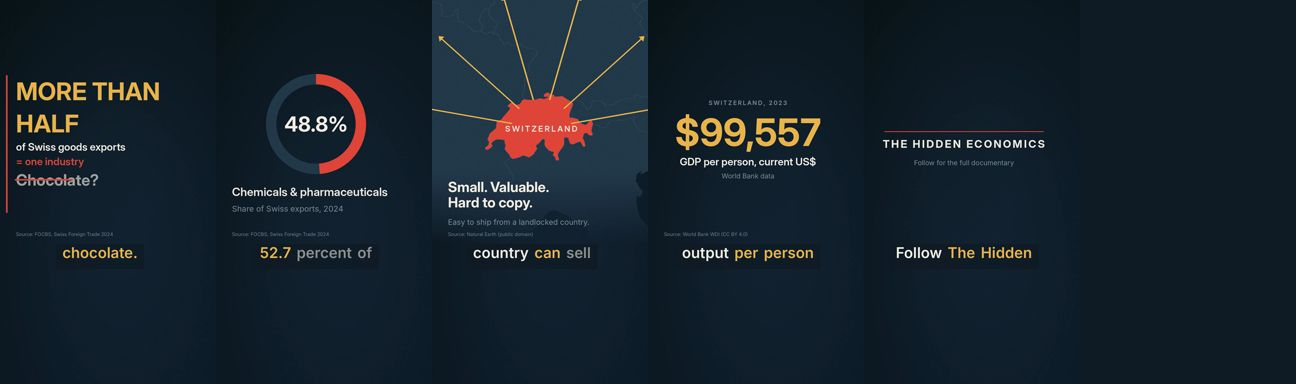
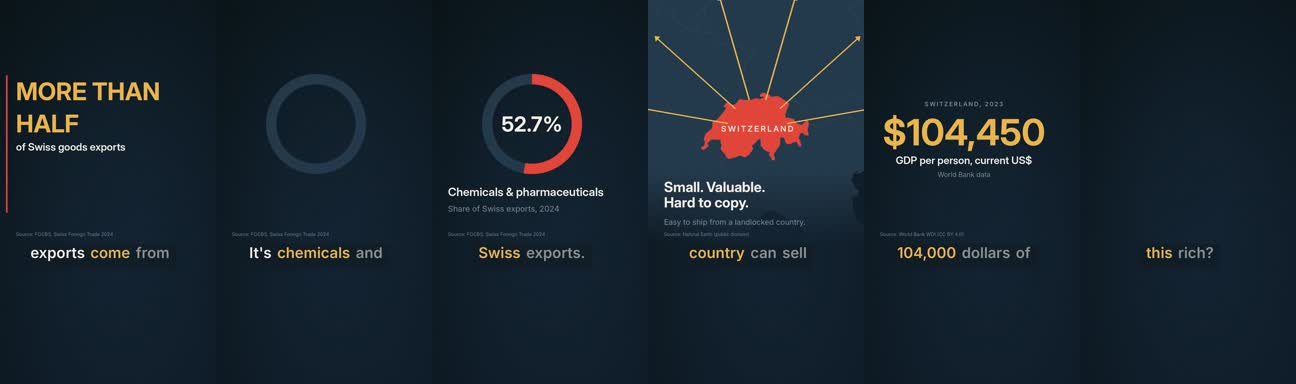
Topic 1 rebuilt with the OpenAI narrator: update PoC reports
documentary 534.9 s, short_exports 38.4 s, extended_franc 76.9 s pass QC
(0 errors). short_secrecy is 46.9 s and fails its 30-45 s runtime target with
the slower voice (speech alone is 44.4 s); left for a script decision rather
than padding or speeding up. Paid TTS billed: 9,734 chars, $0.292 of the
$0.50 cap. QC/cost reports, dossier (consistent live World Bank data),
thumbnails and contact sheets refreshed.

Claude-Session: https://claude.ai/code/session_014jUfN7raNXxtX19HjW58d3

diff --git a/docs/poc/dossier.md b/docs/poc/dossier.md
@@ -1,6 +1,6 @@
 # Research dossier: Why Switzerland Is So Rich
 
-Generated 2026-11-03T02:54:26+00:00.
+Generated 2026-11-03T10:40:12+00:00.
 
 ## Claims
 
@@ -23,10 +23,10 @@ Generated 2026-11-03T02:54:26+00:00.
 | `price_level_2024` | In 2024 Switzerland had the highest price level among the countries compared by Eurostat, with a price level index of 158.8 (EU = 100) at GDP level. | **source_located** | eurostat_price_levels, bluewin_price_2024 |
 | `pharma_hq_basel` | Roche and Novartis both have their global headquarters in Basel. | **source_located** | swissinfo_roche_hq, swissinfo_roche_rd |
 | `pop_che_2023` | Switzerland's population in 2023 was 8,888,822. | **data_derived** | wb_pop_mirror |
-| `gdppc_che_2023` | Switzerland's GDP per capita in 2023 was $99,557 (current US$). | **data_derived** | wb_gdppc_indicator, wb_gdp_mirror, wb_pop_mirror |
-| `ratio_che_deu_2023` | In 2023, Switzerland's GDP per capita was 1.86 times that of Germany ($99,557 vs $53,503). | **data_derived** | wb_gdppc_indicator, wb_gdp_mirror, wb_pop_mirror |
-| `ratio_che_euu_2023` | In 2023, Switzerland's GDP per capita was 2.44 times that of European Union ($99,557 vs $40,877). | **data_derived** | wb_gdppc_indicator, wb_gdp_mirror, wb_pop_mirror |
-| `gdppc_chart_2023` | GDP per capita (current US$), 2023: Switzerland $99,557; United States $81,249; Austria $56,510; Germany $53,503; United Kingdom $48,741; France $44,329; EU average $40,877; Italy $38,228 | **data_derived** | wb_gdppc_indicator, wb_gdp_mirror, wb_pop_mirror |
+| `gdppc_che_2023` | Switzerland's GDP per capita in 2023 was $104,450 (current US$). | **data_derived** | wb_gdppc_indicator, wb_gdp_mirror, wb_pop_mirror |
+| `ratio_che_deu_2023` | In 2023, Switzerland's GDP per capita was 1.91 times that of Germany ($104,450 vs $54,777). | **data_derived** | wb_gdppc_indicator, wb_gdp_mirror, wb_pop_mirror |
+| `ratio_che_euu_2023` | In 2023, Switzerland's GDP per capita was 2.51 times that of European Union ($104,450 vs $41,567). | **data_derived** | wb_gdppc_indicator, wb_gdp_mirror, wb_pop_mirror |
+| `gdppc_chart_2023` | GDP per capita (current US$), 2023: Switzerland $104,450; United States $82,587; Austria $56,580; Germany $54,777; United Kingdom $49,920; France $44,700; EU average $41,567; Italy $39,280 | **data_derived** | wb_gdppc_indicator, wb_gdp_mirror, wb_pop_mirror |
 | `gdppc_series_2000_2023` | GDP per capita (current US$), 2000-2023, for Switzerland, United States, Germany, EU average. | **data_derived** | wb_gdppc_indicator, wb_gdp_mirror, wb_pop_mirror |
 | `che_above_deu_euu_2000_2023` | In every year from 2000 to 2023, Switzerland's GDP per capita exceeded that of Germany and the EU average. | **data_derived** | wb_gdppc_indicator, wb_gdp_mirror, wb_pop_mirror |
 

diff --git a/README.md b/README.md
@@ -9,13 +9,17 @@ dossier:
 
 | Deliverable | Format | Length | Story |
 |---|---|---|---|
-| `documentary` | 1920x1080, 16:9 | 8 min 07 s | Cold open + 6 acts + conclusion: puzzle, stability, money, specialisation, skills, hidden costs |
-| `short_exports` | 1080x1920, 9:16 | 34.6 s | "More than half of Swiss exports come from one industry" |
-| `short_secrecy` | 1080x1920, 9:16 | 40.1 s | Banking secrecy is still law, yet account data is shared since 2018 |
-| `extended_franc` | 1080x1920, 9:16 (TikTok) | 68.7 s | The SNB's 1.20 franc floor, 2011-2015 |
+| `documentary` | 1920x1080, 16:9 | 8 min 55 s | Cold open + 6 acts + conclusion: puzzle, stability, money, specialisation, skills, hidden costs |
+| `short_exports` | 1080x1920, 9:16 | 38.4 s | "More than half of Swiss exports come from one industry" |
+| `short_secrecy` | 1080x1920, 9:16 | 46.9 s ⚠ | Banking secrecy is still law, yet account data is shared since 2018 |
+| `extended_franc` | 1080x1920, 9:16 (TikTok) | 76.9 s | The SNB's 1.20 franc floor, 2011-2015 |
 | `pilot_horizontal` | 1920x1080, 16:9 | 87.7 s | Phase 1 pilot, kept for reference |
 
-All five have English narration (Kokoro-82M, free and local, voice `af_heart`) synchronised to the
+The four Topic 1 deliverables are narrated by the paid OpenAI voice (`gpt-4o-mini-tts`, voice
+`onyx`), approved for this topic under a hard US$0.50 cap; the full build billed US$0.29 (9,734
+characters). ⚠ With this slower voice `short_secrecy` runs 46.9 s, over its 30-45 s target, and fails
+QC on runtime until its script is tightened. `pilot_horizontal` keeps the free Kokoro-82M voice
+(`af_heart`). All narration is synchronised to the
 visuals, an original music bed and original sound effects. The verticals have burned-in captions
 that highlight each word as it is spoken. Previews, QC reports, cost reports and the dossier are in
 [`docs/poc/`](docs/poc). The videos themselves are not committed; rebuild them with one command (below).

diff --git a/docs/poc/cost_documentary.md b/docs/poc/cost_documentary.md
@@ -2,7 +2,19 @@
 
 | Kind | Step | Provider | Units | USD | Note |
 |---|---|---|---|---|---|
-| estimate | tts (pre-build estimate) | kokoro | 7182 characters | $0.0000 | pricing verified_on: n/a (open source, local) |
-| actual | render | local_cpu | 0.0457 cpu_hours | $0.0000 | assumed negligible on your own machine |
-| actual | tts (characters actually synthesised) | kokoro | 0 characters | $0.0000 | pricing verified_on: n/a (open source, local); cached sentences are free |
+| estimate | tts (pre-build estimate) | openai | 7183 characters | $0.2155 | pricing verified_on: 2026-11-03 via search results (not OpenAI's page) - confirm at https://openai.com/api/pricing |
+| actual | render | local_cpu | 0.2092 cpu_hours | $0.0000 | assumed negligible on your own machine |
+| actual | tts (characters actually synthesised) | openai | 0 characters | $0.0000 | pricing verified_on: 2026-11-03 via search results (not OpenAI's page) - confirm at https://openai.com/api/pricing; cached sentences are free |
 | **actual total** | | | | **$0.0000** | |
+
+## Paid voice actually billed (OpenAI `gpt-4o-mini-tts`, voice `onyx`)
+
+The table above is from the final rebuild, where every sentence came from the audio cache (0 new
+characters). The narration was paid for once, in the first build on 2026-11-03:
+
+| Requests | Characters | USD (at $0.030 / 1k chars) |
+|---|---|---|
+| 94 | 7351 | $0.22053 |
+
+Topic ledger: `output/<slug>/paid_spend.json`. Topic total for all four deliverables plus one
+119-character voice test: **9,734 characters, $0.2920**, against the hard cap of $0.50.

diff --git a/docs/poc/cost_extended_franc.md b/docs/poc/cost_extended_franc.md
@@ -2,7 +2,19 @@
 
 | Kind | Step | Provider | Units | USD | Note |
 |---|---|---|---|---|---|
-| estimate | tts (pre-build estimate) | kokoro | 1061 characters | $0.0000 | pricing verified_on: n/a (open source, local) |
-| actual | render | local_cpu | 0.1966 cpu_hours | $0.0000 | assumed negligible on your own machine |
-| actual | tts (characters actually synthesised) | kokoro | 0 characters | $0.0000 | pricing verified_on: n/a (open source, local); cached sentences are free |
+| estimate | tts (pre-build estimate) | openai | 1061 characters | $0.0318 | pricing verified_on: 2026-11-03 via search results (not OpenAI's page) - confirm at https://openai.com/api/pricing |
+| actual | render | local_cpu | 0.0278 cpu_hours | $0.0000 | assumed negligible on your own machine |
+| actual | tts (characters actually synthesised) | openai | 0 characters | $0.0000 | pricing verified_on: 2026-11-03 via search results (not OpenAI's page) - confirm at https://openai.com/api/pricing; cached sentences are free |
 | **actual total** | | | | **$0.0000** | |
+
+## Paid voice actually billed (OpenAI `gpt-4o-mini-tts`, voice `onyx`)
+
+The table above is from the final rebuild, where every sentence came from the audio cache (0 new
+characters). The narration was paid for once, in the first build on 2026-11-03:
+
+| Requests | Characters | USD (at $0.030 / 1k chars) |
+|---|---|---|
+| 17 | 1076 | $0.03228 |
+
+Topic ledger: `output/<slug>/paid_spend.json`. Topic total for all four deliverables plus one
+119-character voice test: **9,734 characters, $0.2920**, against the hard cap of $0.50.

diff --git a/docs/poc/cost_short_exports.md b/docs/poc/cost_short_exports.md
@@ -2,7 +2,19 @@
 
 | Kind | Step | Provider | Units | USD | Note |
 |---|---|---|---|---|---|
-| estimate | tts (pre-build estimate) | kokoro | 487 characters | $0.0000 | pricing verified_on: n/a (open source, local) |
-| actual | render | local_cpu | 0.0191 cpu_hours | $0.0000 | assumed negligible on your own machine |
-| actual | tts (characters actually synthesised) | kokoro | 482 characters | $0.0000 | pricing verified_on: n/a (open source, local); cached sentences are free |
+| estimate | tts (pre-build estimate) | openai | 488 characters | $0.0146 | pricing verified_on: 2026-11-03 via search results (not OpenAI's page) - confirm at https://openai.com/api/pricing |
+| actual | render | local_cpu | 0.0158 cpu_hours | $0.0000 | assumed negligible on your own machine |
+| actual | tts (characters actually synthesised) | openai | 0 characters | $0.0000 | pricing verified_on: 2026-11-03 via search results (not OpenAI's page) - confirm at https://openai.com/api/pricing; cached sentences are free |
 | **actual total** | | | | **$0.0000** | |
+
+## Paid voice actually billed (OpenAI `gpt-4o-mini-tts`, voice `onyx`)
+
+The table above is from the final rebuild, where every sentence came from the audio cache (0 new
+characters). The narration was paid for once, in the first build on 2026-11-03:
+
+| Requests | Characters | USD (at $0.030 / 1k chars) |
+|---|---|---|
+| 10 | 547 | $0.01641 |
+
+Topic ledger: `output/<slug>/paid_spend.json`. Topic total for all four deliverables plus one
+119-character voice test: **9,734 characters, $0.2920**, against the hard cap of $0.50.

diff --git a/docs/poc/cost_short_secrecy.md b/docs/poc/cost_short_secrecy.md
@@ -2,7 +2,19 @@
 
 | Kind | Step | Provider | Units | USD | Note |
 |---|---|---|---|---|---|
-| estimate | tts (pre-build estimate) | kokoro | 619 characters | $0.0000 | pricing verified_on: n/a (open source, local) |
-| actual | render | local_cpu | 0.0199 cpu_hours | $0.0000 | assumed negligible on your own machine |
-| actual | tts (characters actually synthesised) | kokoro | 614 characters | $0.0000 | pricing verified_on: n/a (open source, local); cached sentences are free |
+| estimate | tts (pre-build estimate) | openai | 619 characters | $0.0186 | pricing verified_on: 2026-11-03 via search results (not OpenAI's page) - confirm at https://openai.com/api/pricing |
+| actual | render | local_cpu | 0.0171 cpu_hours | $0.0000 | assumed negligible on your own machine |
+| actual | tts (characters actually synthesised) | openai | 0 characters | $0.0000 | pricing verified_on: 2026-11-03 via search results (not OpenAI's page) - confirm at https://openai.com/api/pricing; cached sentences are free |
 | **actual total** | | | | **$0.0000** | |
+
+## Paid voice actually billed (OpenAI `gpt-4o-mini-tts`, voice `onyx`)
+
+The table above is from the final rebuild, where every sentence came from the audio cache (0 new
+characters). The narration was paid for once, in the first build on 2026-11-03:
+
+| Requests | Characters | USD (at $0.030 / 1k chars) |
+|---|---|---|
+| 10 | 641 | $0.01923 |
+
+Topic ledger: `output/<slug>/paid_spend.json`. Topic total for all four deliverables plus one
+119-character voice test: **9,734 characters, $0.2920**, against the hard cap of $0.50.

diff --git a/docs/poc/qc_documentary.md b/docs/poc/qc_documentary.md
@@ -1,17 +1,16 @@
 # QC report: why-switzerland-is-so-rich / documentary (long_16x9)
 
-- Runtime: **487.23 s**
-- Video: 1920x1080 @ 30/1 h264, audio aac 48000 Hz, 250.7 MB
-- Loudness: -16.0 LUFS integrated, true peak -3.4 dBFS
-- Errors: **0**, warnings: **10**
+- Runtime: **534.9 s**
+- Video: 1920x1080 @ 30/1 h264, audio aac 48000 Hz, 272.8 MB
+- Loudness: -16.0 LUFS integrated, true peak -4.2 dBFS
+- Errors: **0**, warnings: **9**
 - Technical QC passed: **True**
 - Publishable (no unverified claims): **False**
 
 ## Issues
 
-- [WARNING] (timing) Segment puzzle_caveat pace 187 wpm (numerals count as one word)
-- [WARNING] (timing) Segment spec_why pace 185 wpm (numerals count as one word)
-- [WARNING] (timing) Segment skills_gii pace 115 wpm (numerals count as one word)
+- [WARNING] (timing) Segment puzzle_caveat pace 193 wpm (numerals count as one word)
+- [WARNING] (timing) Segment skills_gii pace 104 wpm (numerals count as one word)
 - [WARNING] (sources) Number word 'four' outside a placeholder - confirm it is not an unsourced statistic.
 - [WARNING] (sources) Number word 'two' outside a placeholder - confirm it is not an unsourced statistic.
 - [WARNING] (sources) Number word 'one' outside a placeholder - confirm it is not an unsourced statistic.

diff --git a/docs/poc/qc_short_exports.md b/docs/poc/qc_short_exports.md
@@ -1,16 +1,16 @@
 # QC report: why-switzerland-is-so-rich / short_exports (short_9x16)
 
-- Runtime: **34.63 s**
-- Video: 1080x1920 @ 30/1 h264, audio aac 48000 Hz, 17.4 MB
-- Loudness: -14.4 LUFS integrated, true peak -4.3 dBFS
+- Runtime: **38.37 s**
+- Video: 1080x1920 @ 30/1 h264, audio aac 48000 Hz, 19.5 MB
+- Loudness: -14.5 LUFS integrated, true peak -4.3 dBFS
 - Errors: **0**, warnings: **4**
 - Technical QC passed: **True**
 - Publishable (no unverified claims): **False**
 
 ## Issues
 
-- [WARNING] (timing) Segment reveal pace 106 wpm (numerals count as one word)
-- [WARNING] (timing) Segment payoff pace 106 wpm (numerals count as one word)
+- [WARNING] (timing) Segment reveal pace 92 wpm (numerals count as one word)
+- [WARNING] (timing) Segment payoff pace 108 wpm (numerals count as one word)
 - [WARNING] (sources) Number word 'one' outside a placeholder - confirm it is not an unsourced statistic.
 - [WARNING] (sources) Number word 'one' outside a placeholder - confirm it is not an unsourced statistic.
 

diff --git a/docs/poc/qc_short_secrecy.md b/docs/poc/qc_short_secrecy.md
@@ -1,15 +1,17 @@
 # QC report: why-switzerland-is-so-rich / short_secrecy (short_9x16)
 
-- Runtime: **40.1 s**
-- Video: 1080x1920 @ 30/1 h264, audio aac 48000 Hz, 19.6 MB
-- Loudness: -14.4 LUFS integrated, true peak -4.4 dBFS
-- Errors: **0**, warnings: **0**
-- Technical QC passed: **True**
+- Runtime: **46.93 s**
+- Video: 1080x1920 @ 30/1 h264, audio aac 48000 Hz, 22.5 MB
+- Loudness: -14.4 LUFS integrated, true peak -4.3 dBFS
+- Errors: **1**, warnings: **2**
+- Technical QC passed: **False**
 - Publishable (no unverified claims): **False**
 
 ## Issues
 
-None.
+- [ERROR] (timing) Runtime 46.9s outside target 30-45s
+- [WARNING] (timing) Segment law pace 110 wpm (numerals count as one word)
+- [WARNING] (timing) Segment number pace 100 wpm (numerals count as one word)
 
 ## Publish blockers - claims needing human verification
 

diff --git a/docs/poc/qc_extended_franc.md b/docs/poc/qc_extended_franc.md
@@ -1,14 +1,15 @@
 # QC report: why-switzerland-is-so-rich / extended_franc (extended_9x16)
 
-- Runtime: **68.67 s**
-- Video: 1080x1920 @ 30/1 h264, audio aac 48000 Hz, 35.4 MB
-- Loudness: -14.5 LUFS integrated, true peak -4.1 dBFS
-- Errors: **0**, warnings: **2**
+- Runtime: **76.87 s**
+- Video: 1080x1920 @ 30/1 h264, audio aac 48000 Hz, 38.2 MB
+- Loudness: -14.6 LUFS integrated, true peak -4.3 dBFS
+- Errors: **0**, warnings: **3**
 - Technical QC passed: **True**
 - Publishable (no unverified claims): **False**
 
 ## Issues
 
+- [WARNING] (timing) Segment break pace 118 wpm (numerals count as one word)
 - [WARNING] (sources) Number word 'one' outside a placeholder - confirm it is not an unsourced statistic.
 - [WARNING] (sources) Number word 'three' outside a placeholder - confirm it is not an unsourced statistic.
 
